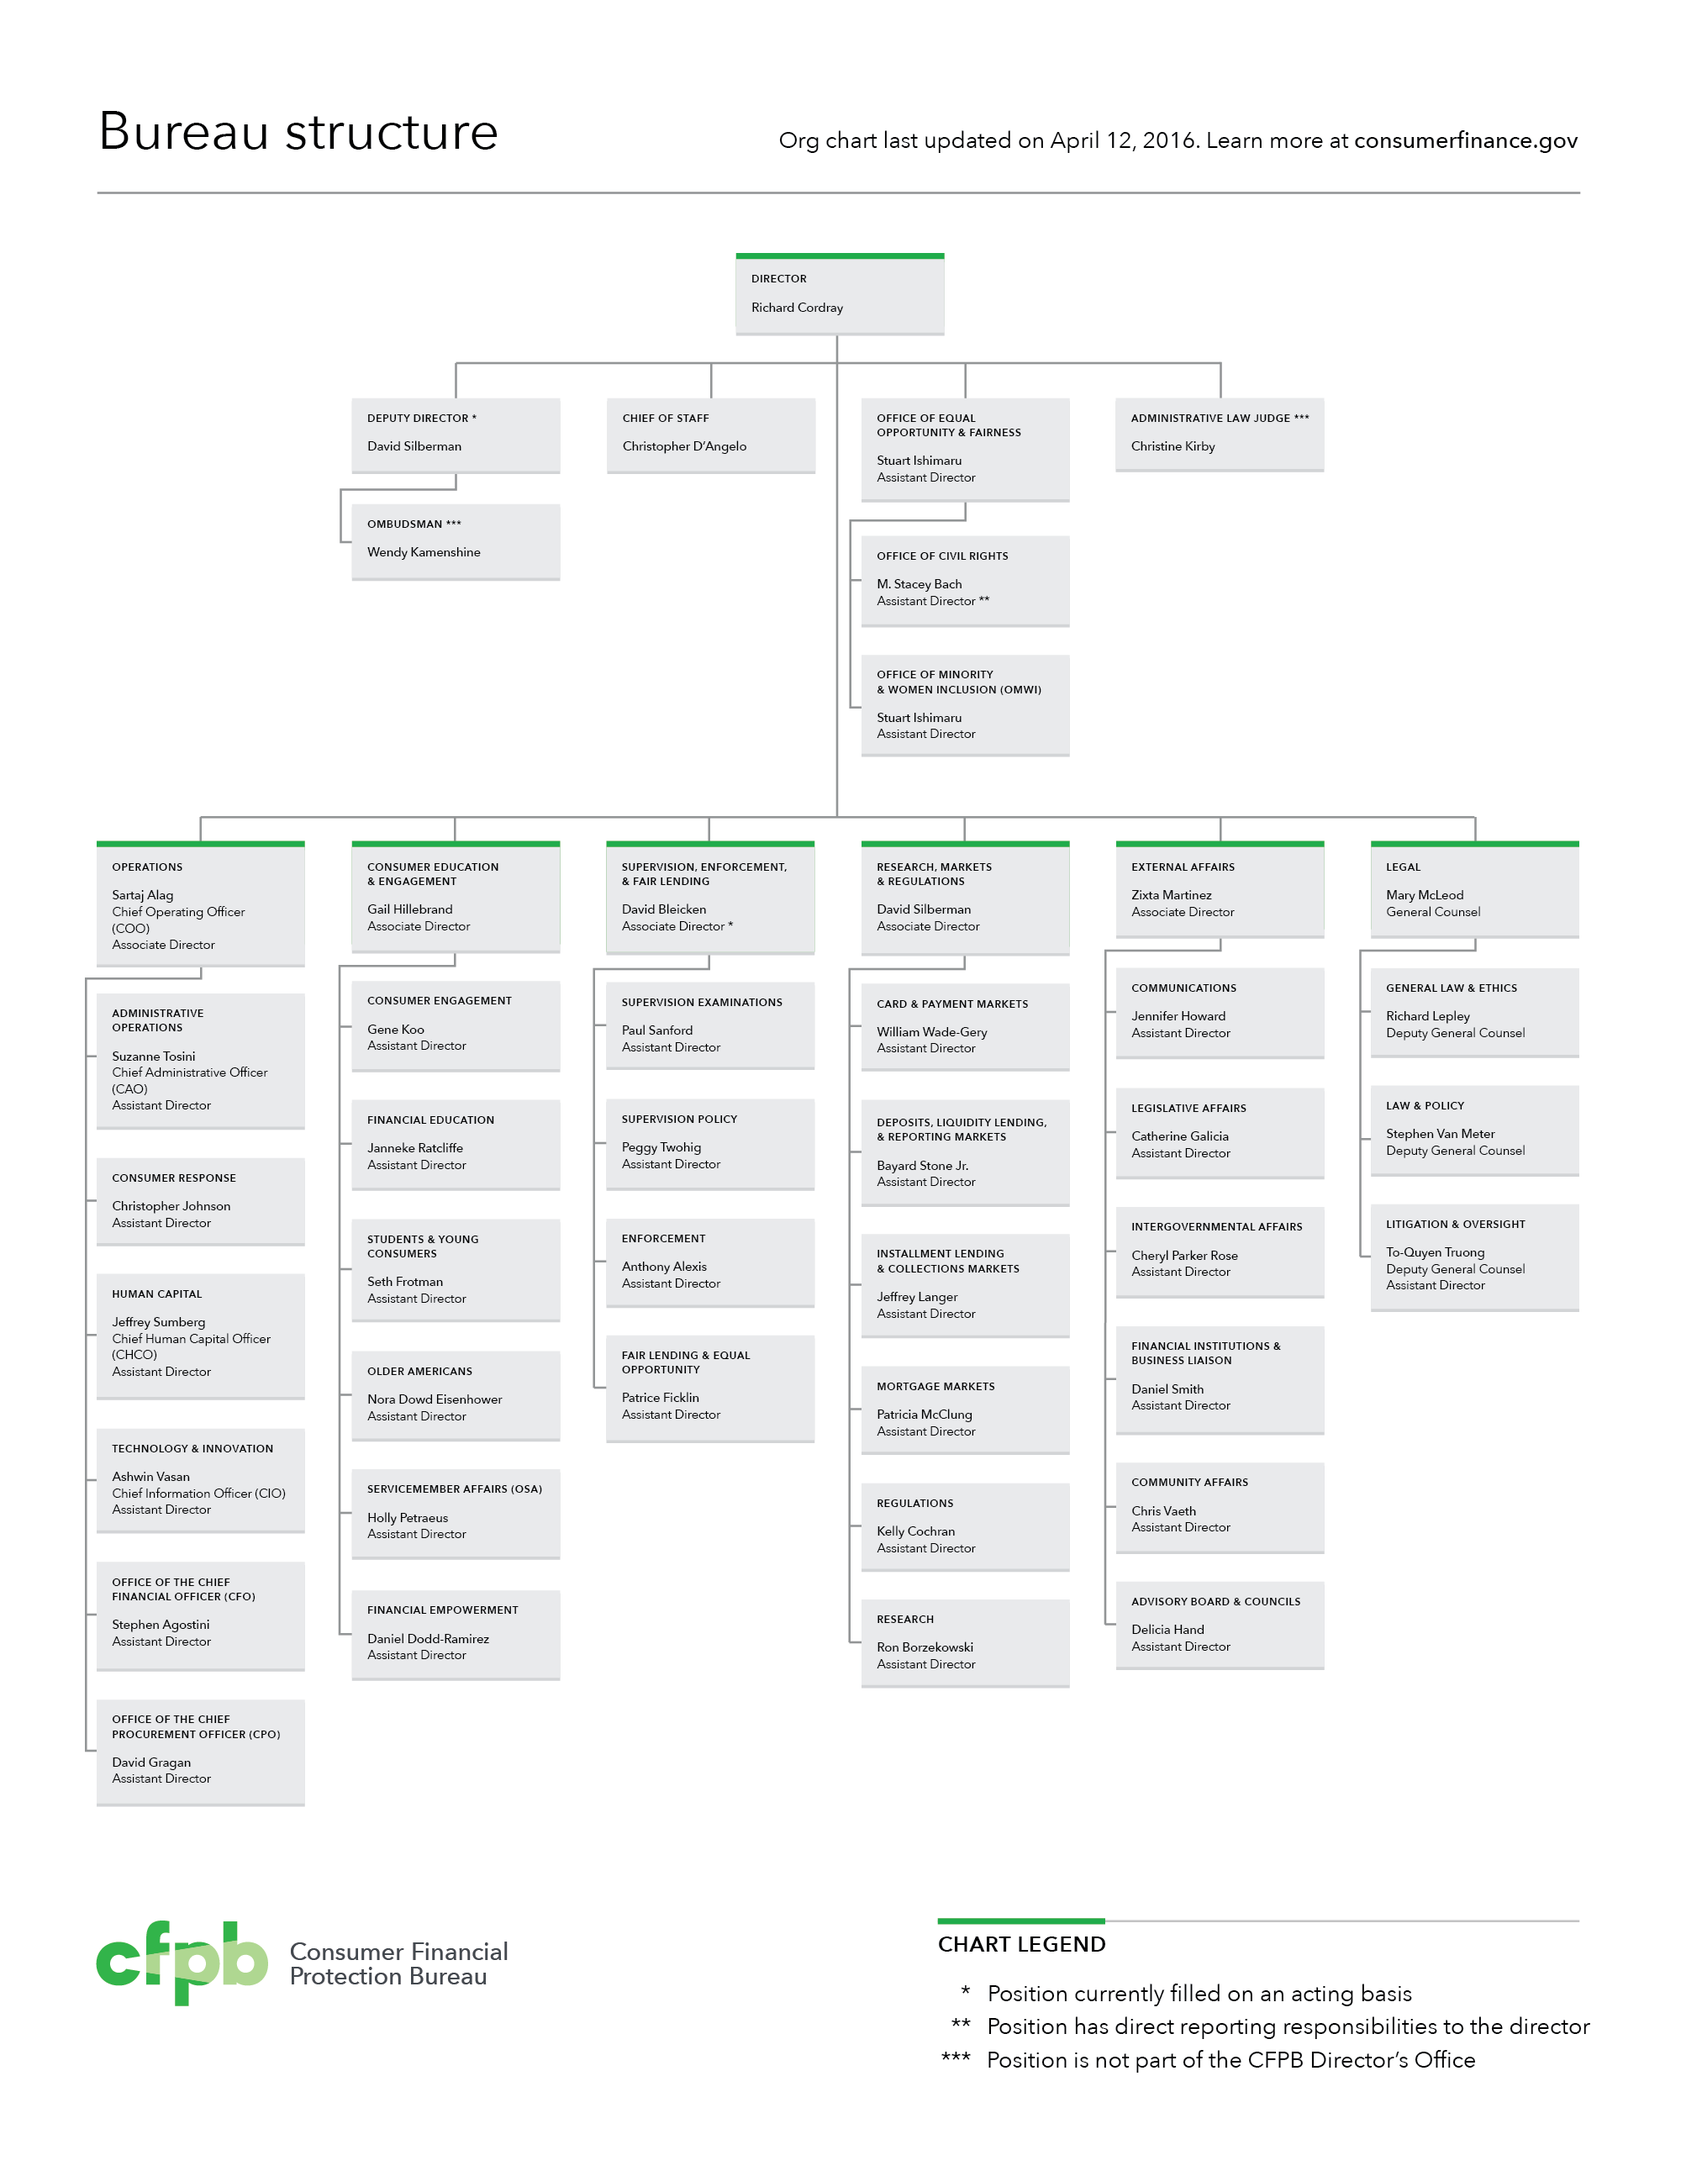
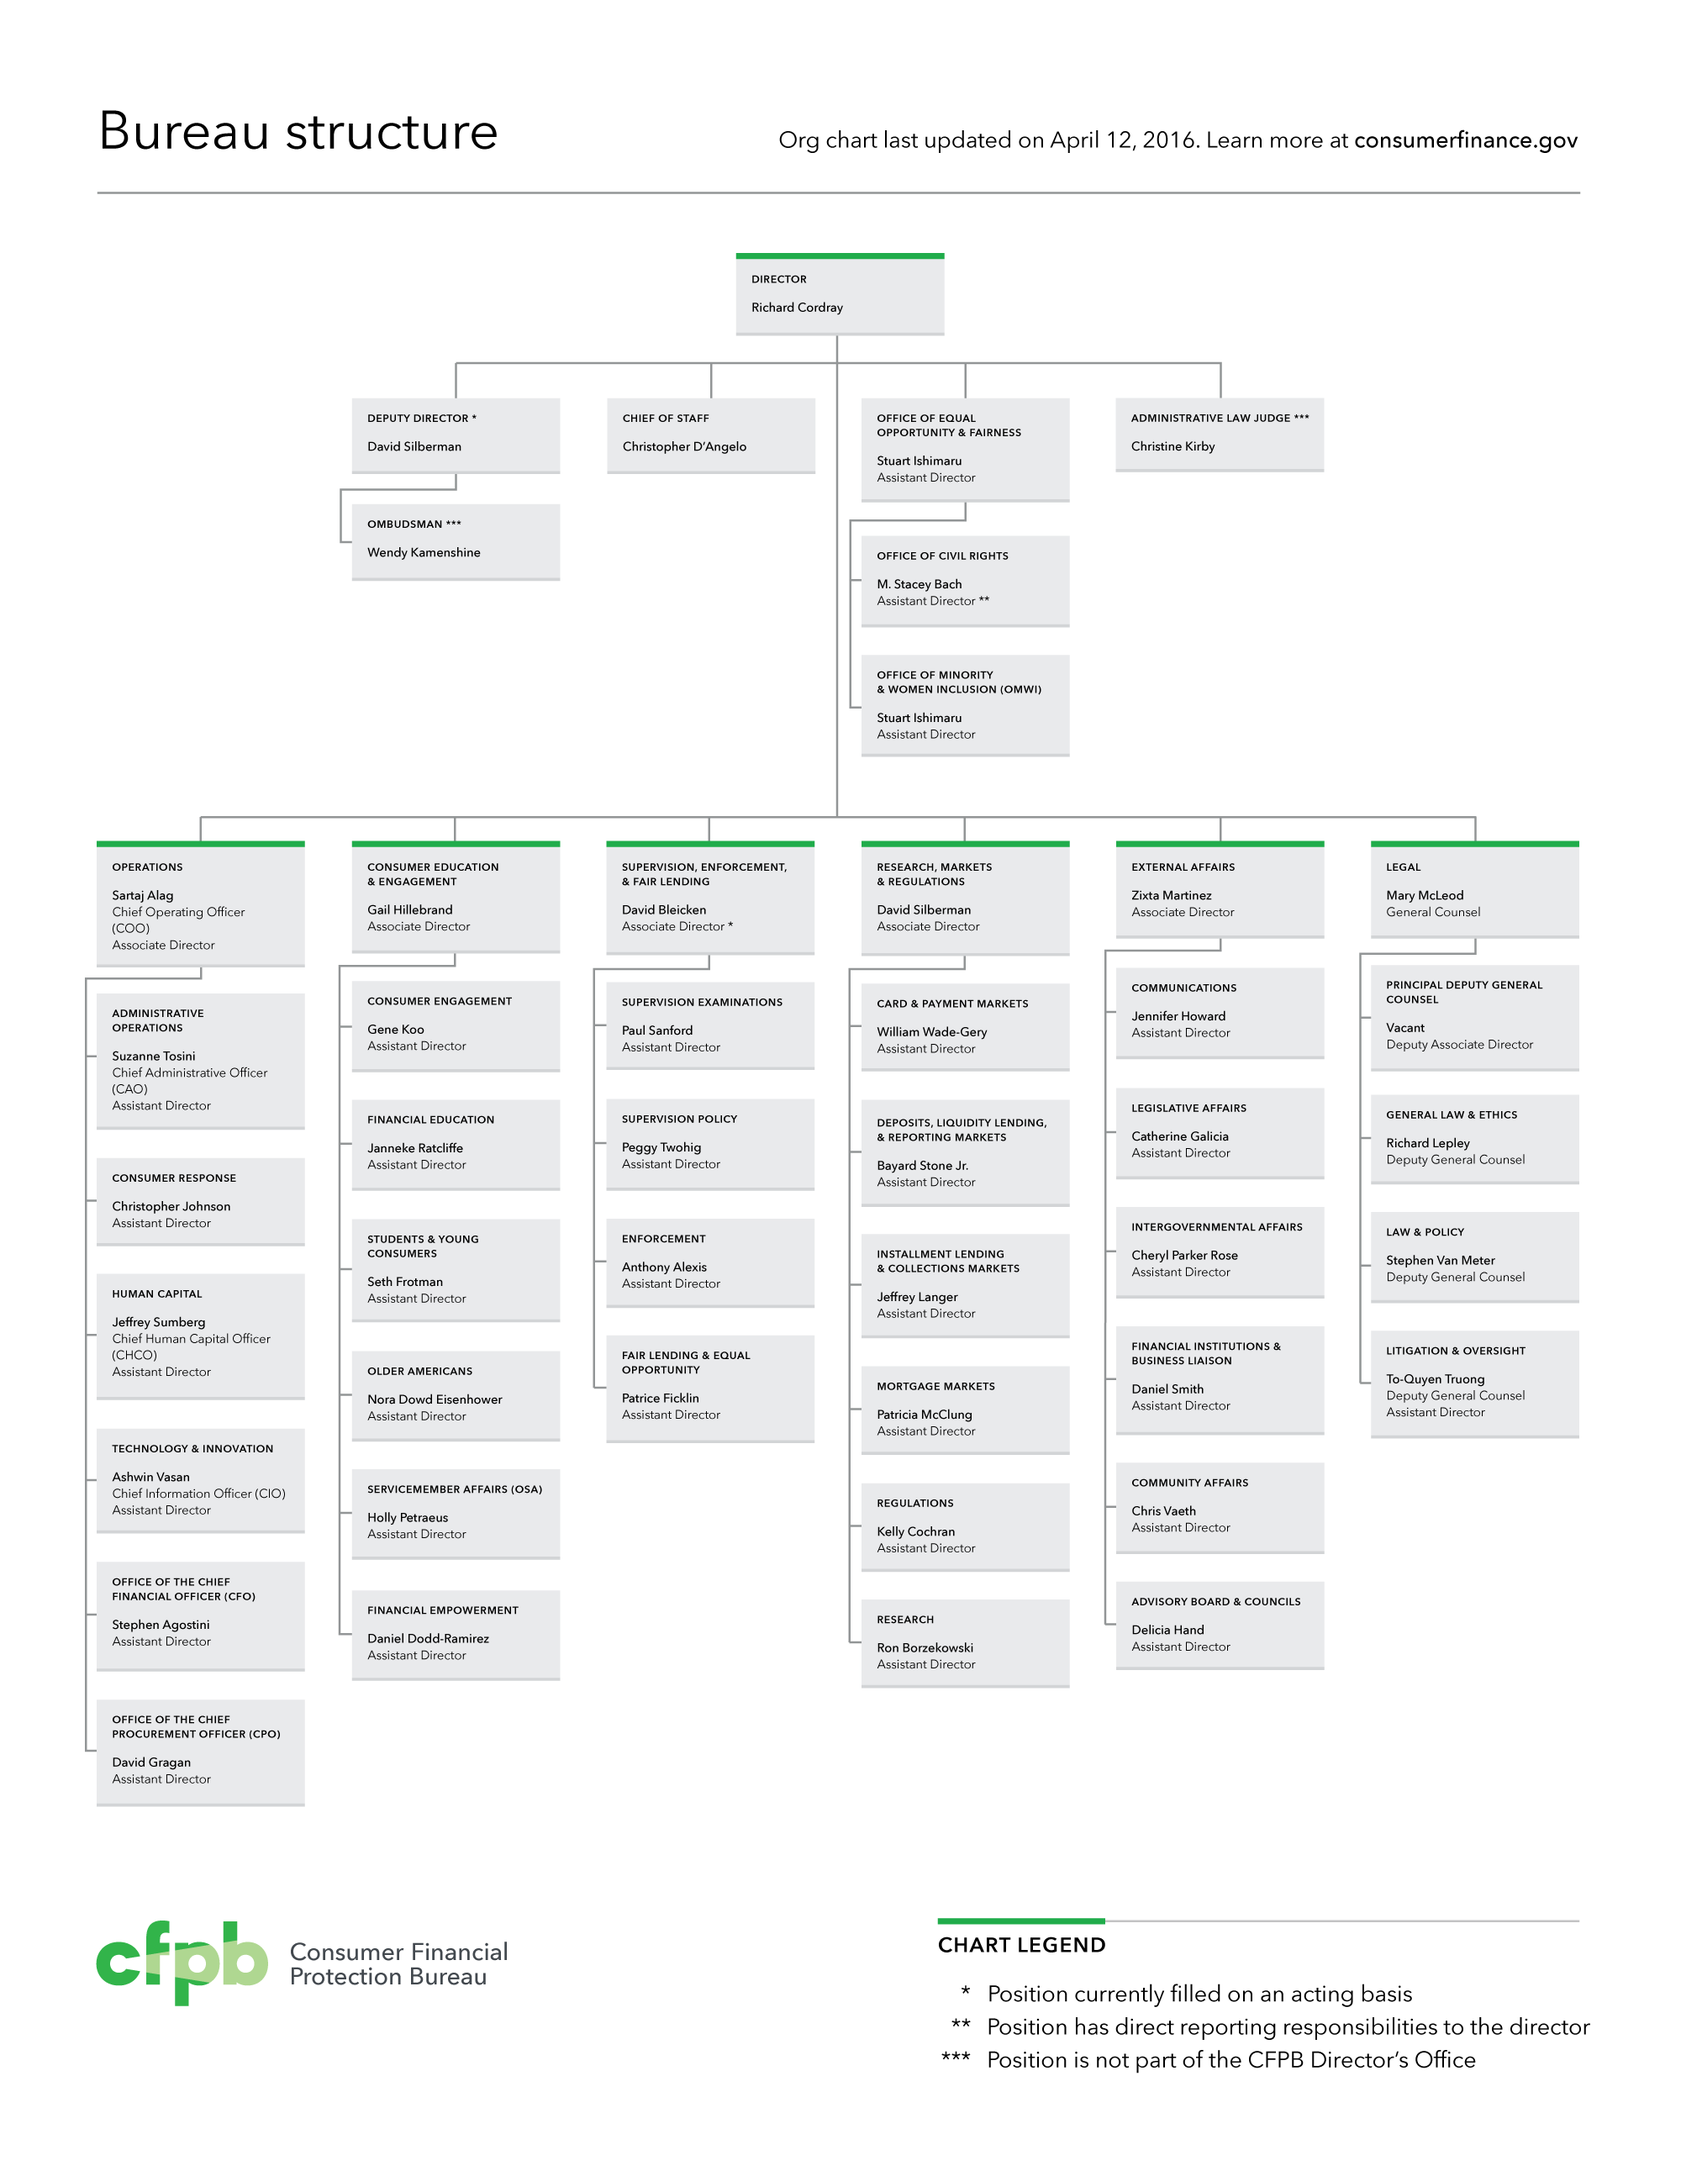
Updated static version of the org chart

diff --git a/CHANGELOG.md b/CHANGELOG.md
@@ -19,6 +19,8 @@ Given the `MAJOR.MINOR.PATCH` pattern, here is how we decide to increment:
 
 ### Changed
 
+- Updated static version of the org chart.
+
 ### Removed
 
 ### Fixed
